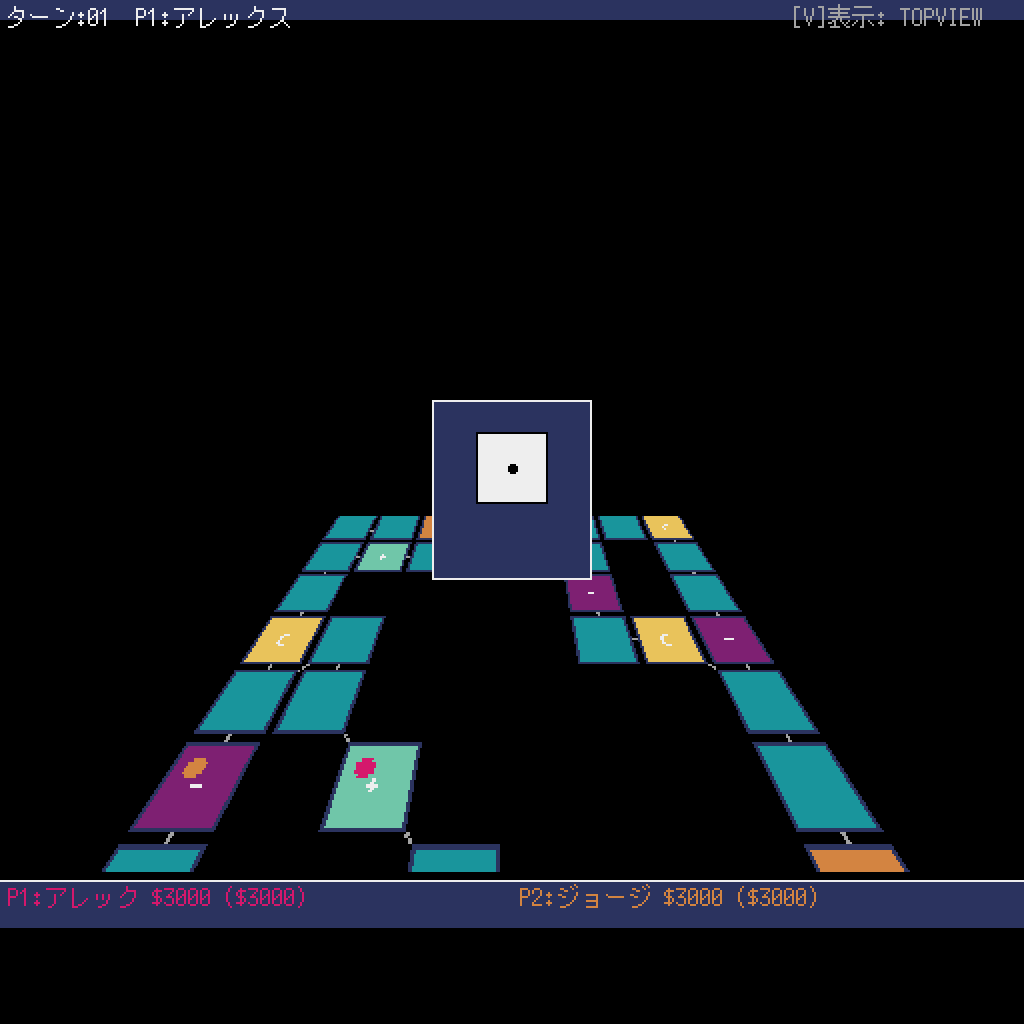
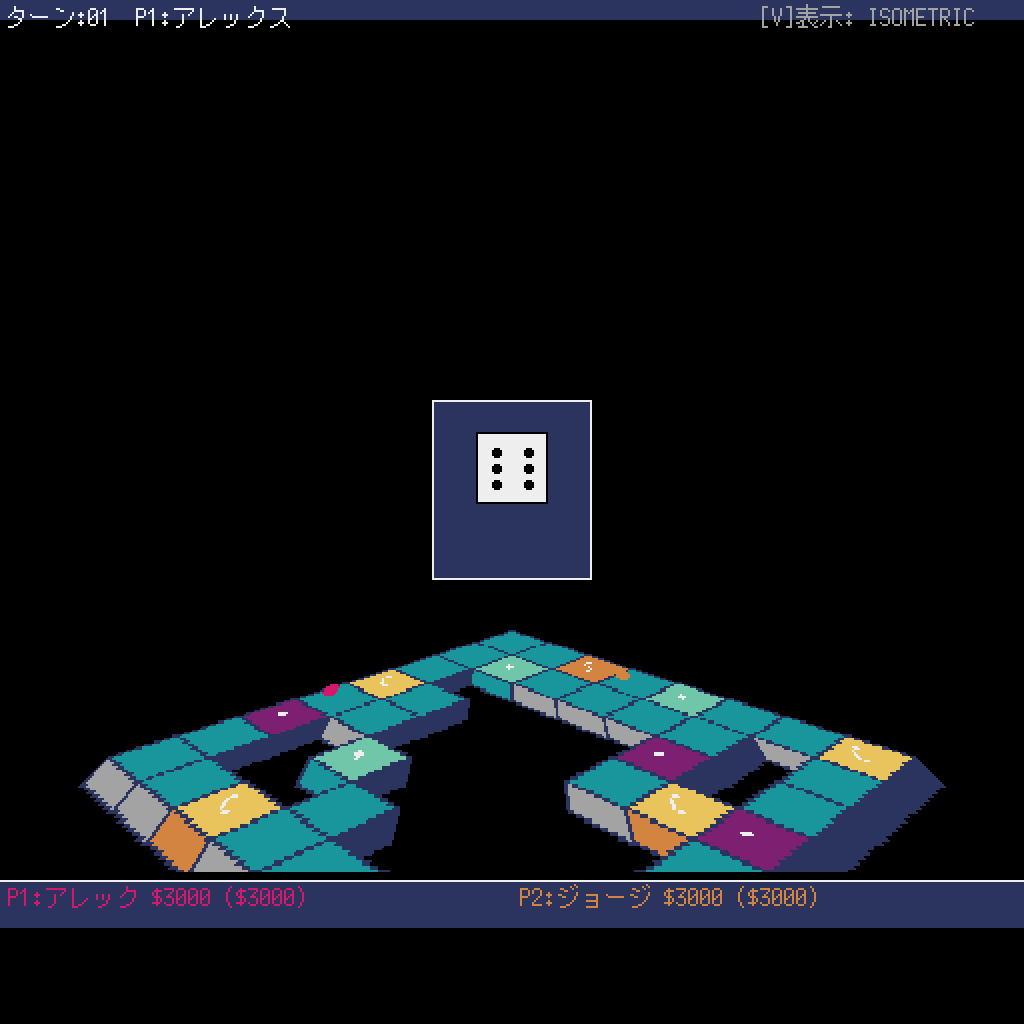
fix: use flat camera (rot_x=75) for isometric view to reduce perspective
- Add flat_mode to TileZoomAnimation with separate camera params per view
- Isometric: rot_x=75, FOV=90 (less perspective, diamond tiles visible flat)
- TopView: rot_x=65, FOV=90 (existing tilted perspective)
- Per-view FOV support (NORMAL_FOV vs FLAT_FOV)

https://claude.ai/code/session_013EQgRentpJGPVhsfDfY5Vr

Changed region(s): [[0.0625, 0.5, 0.9375, 0.875], [0.75, 0.0, 0.9688, 0.0312], [0.4688, 0.4375, 0.5312, 0.4688]]

diff --git a/src/ui/animation.py b/src/ui/animation.py
@@ -90,23 +90,37 @@ class TileZoomAnimation(Animation):
 
     常にカメラパラメータを提供する。
     非ズーム時はデフォルトの俯瞰位置、ズーム時はマスに接近する。
+    flat_mode=Trueの場合、パースをつけずに真上からのカメラで
+    ズームのみ行う（アイソメトリック描画との二重パース防止）。
     """
 
     ZOOM_IN_DURATION = 20
     ZOOM_OUT_DURATION = 15
-    FOV = 90
     IMG_CENTER = 128  # イメージバンク中心
 
-    # 通常時カメラ（俯瞰）
+    # 通常時カメラ（俯瞰・パースあり）
     NORMAL_X = 128
     NORMAL_Y = 220
     NORMAL_Z = 120
     NORMAL_RX = 65
+    NORMAL_FOV = 90
 
-    # ズーム時カメラ（接近）
+    # ズーム時カメラ（接近・パースあり）
     ZOOM_Z = 25
     ZOOM_Y_OFFSET = 20  # マス位置からのYオフセット
     ZOOM_RX = 55
+
+    # フラットモード: ほぼ真上からのカメラ（パース最小）
+    # 公式サンプル参照: rot_x最大100=真下、Z小さめ、FOV狭め
+    FLAT_NORMAL_X = 128
+    FLAT_NORMAL_Y = 220
+    FLAT_NORMAL_Z = 120
+    FLAT_NORMAL_RX = 75
+    FLAT_FOV = 90
+
+    FLAT_ZOOM_Z = 20
+    FLAT_ZOOM_Y_OFFSET = 10
+    FLAT_ZOOM_RX = 70
 
     def __init__(self):
         super().__init__(duration=20)
@@ -115,6 +129,7 @@ class TileZoomAnimation(Animation):
         self.zooming_out = False
         self.target_x = self.IMG_CENTER
         self.target_y = self.IMG_CENTER
+        self.flat_mode = False
 
     def start_zoom_in(self, target_x, target_y, on_complete=None):
         self.target_x = target_x
@@ -152,9 +167,14 @@ class TileZoomAnimation(Animation):
     @property
     def camera_pos(self):
         """常にカメラ位置を返す（非ズーム時はデフォルト俯瞰）"""
+        if self.flat_mode:
+            return self._camera_pos_flat
+        return self._camera_pos_perspective
+
+    @property
+    def _camera_pos_perspective(self):
         if not self.active:
             return (self.NORMAL_X, self.NORMAL_Y, self.NORMAL_Z)
-
         t = self._eased_progress
         zoom_y = self.target_y + self.ZOOM_Y_OFFSET
         cx = self._lerp(self.NORMAL_X, self.target_x, t)
@@ -163,7 +183,20 @@ class TileZoomAnimation(Animation):
         return (cx, cy, cz)
 
     @property
+    def _camera_pos_flat(self):
+        if not self.active:
+            return (self.FLAT_NORMAL_X, self.FLAT_NORMAL_Y, self.FLAT_NORMAL_Z)
+        t = self._eased_progress
+        zoom_y = self.target_y + self.FLAT_ZOOM_Y_OFFSET
+        cx = self._lerp(self.FLAT_NORMAL_X, self.target_x, t)
+        cy = self._lerp(self.FLAT_NORMAL_Y, zoom_y, t)
+        cz = self._lerp(self.FLAT_NORMAL_Z, self.FLAT_ZOOM_Z, t)
+        return (cx, cy, cz)
+
+    @property
     def camera_rot(self):
+        if self.flat_mode:
+            return (self.FLAT_NORMAL_RX, 0, 0)
         if not self.active:
             return (self.NORMAL_RX, 0, 0)
         t = self._eased_progress
@@ -172,4 +205,4 @@ class TileZoomAnimation(Animation):
 
     @property
     def fov(self):
-        return self.FOV
+        return self.FLAT_FOV if self.flat_mode else self.NORMAL_FOV

diff --git a/src/scenes/main_board.py b/src/scenes/main_board.py
@@ -300,7 +300,11 @@ class MainBoardScene(Scene):
         tile = gs.board.get_tile(player.position)
 
         # ズームイン開始（対象マスへ）
-        tx, ty = self.view_manager.board_view.tile_image_pos(tile.id)
+        # アイソメトリック時はトップビューの座標を使う（描画もトップビュー）
+        if self.view_manager.view_type == "isometric":
+            tx, ty = self.view_manager._board_views["topview"].tile_image_pos(tile.id)
+        else:
+            tx, ty = self.view_manager.board_view.tile_image_pos(tile.id)
         self.sub_phase = SubPhase.TILE_ZOOM_IN
         self.tile_zoom.start_zoom_in(
             tx, ty,
@@ -688,7 +692,12 @@ class MainBoardScene(Scene):
 
         # オフスクリーン描画 → blt3d でスクリーンに転送
         img = pyxel.images[self.zoom_image_idx]
-        self.view_manager.board_view.draw_board_to_image(
+        is_iso = self.view_manager.view_type == "isometric"
+        # アイソメトリック: フラットカメラ（パース最小、ズームのみ）
+        # トップビュー: パース付きカメラ
+        self.tile_zoom.flat_mode = is_iso
+        draw_view = self.view_manager.board_view
+        draw_view.draw_board_to_image(
             img, gs.active_players, move_info
         )
         pos = self.tile_zoom.camera_pos
